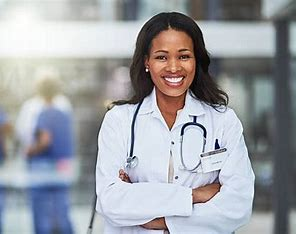
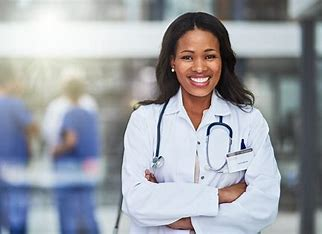
+++

diff --git a/lib/models.dart b/lib/models.dart
@@ -81,15 +81,15 @@ class DoctorsList {
       '6:30 PM - 8:30 PM',
     ),
     DoctorsModel(
-      './assets/d2.jpeg',
+      './assets/d4.jpeg',
       'Dr. Sabrina Honero',
       'Pediatrician',
       'STU Medical Center',
       '3:30 PM - 8:30 PM',
     ),
-    DoctorsModel('./assets/d3.jpeg', 'Dr. Konzo Kilakshal',
+    DoctorsModel('./assets/d5.jpeg', 'Dr. Konzo Kilakshal',
         'Orthopedic Surgeon', 'Ubaya Ubwela Medics', '5:30 PM - 7:00 PM'),
-    DoctorsModel('./assets/d2.jpeg', 'Dr. Sarah Wilson', 'Radiologist',
+    DoctorsModel('./assets/d6.jpeg', 'Dr. Sarah Wilson', 'Radiologist',
         'Njiapanda Medics Center', '5:30 PM - 7:00 PM'),
   ];
   static List<DoctorsModel> displayList = List.from(DoctorsList.getDoctorsList);
